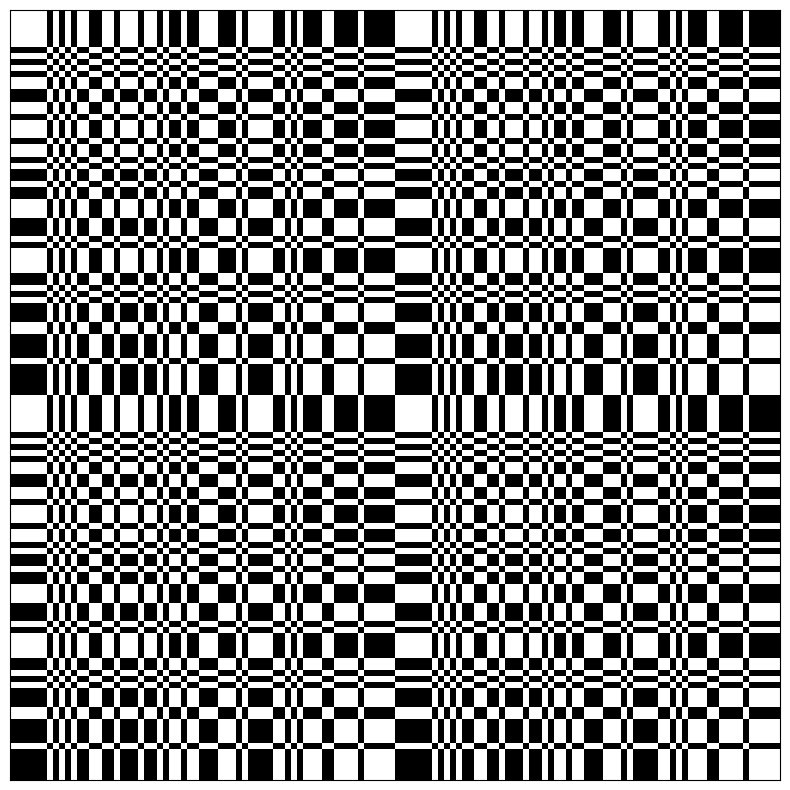
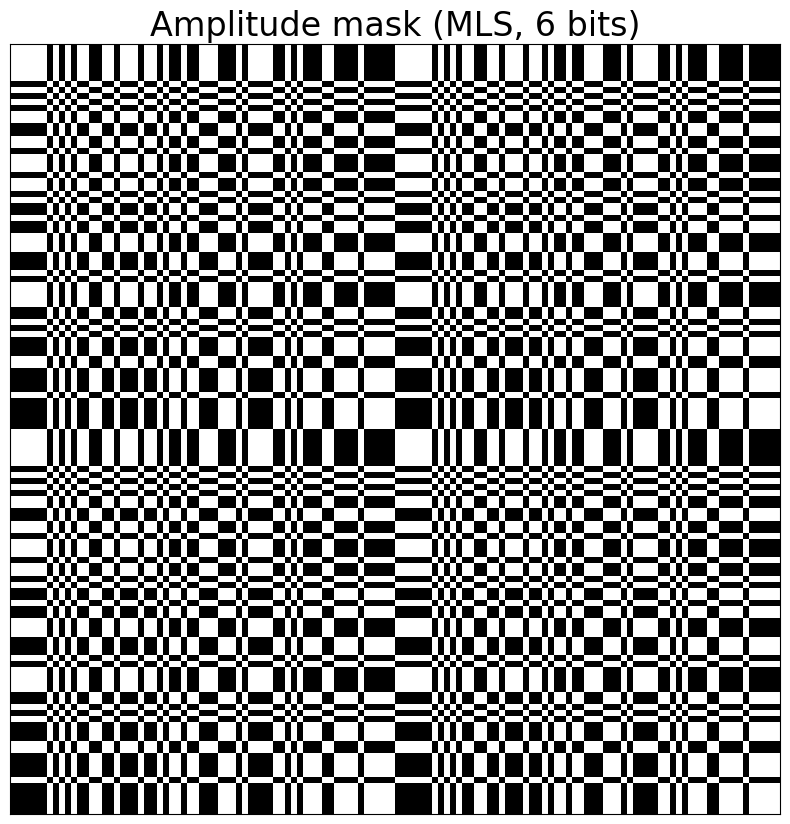
captioning

diff --git a/index.html b/index.html
@@ -72,7 +72,7 @@
         <br>
         The code to obtain such masks war inspired from the code available in <a href="https://github.com/THUHoloLab/FZA_lensless_imaging">this repository</a>.
         <br>
-        <img src="images/fza_dim300_r20.png" height="300">
+        <img src="images/fza_dim510_r30.png" height="300">
     </p>
     
 
